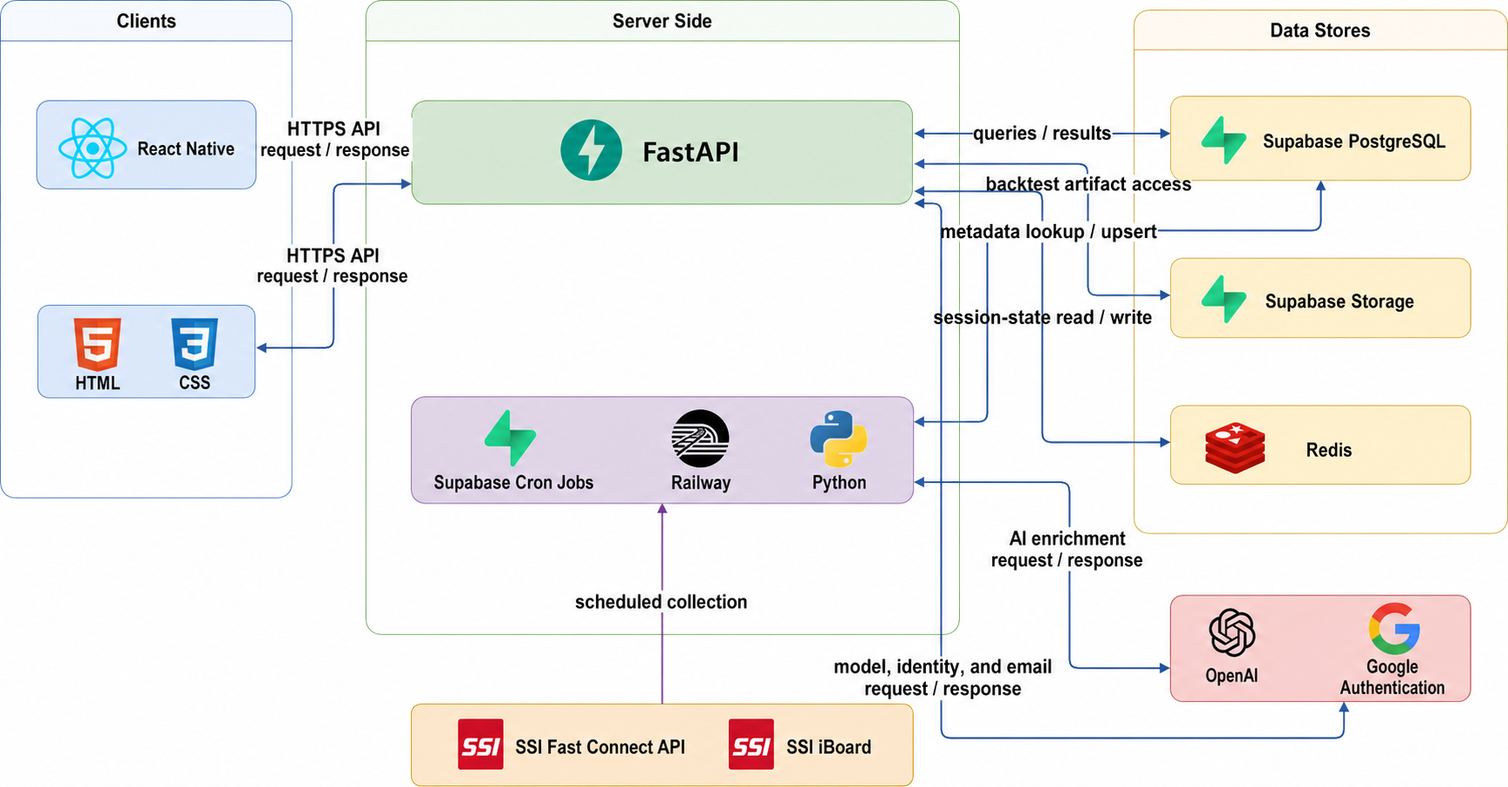
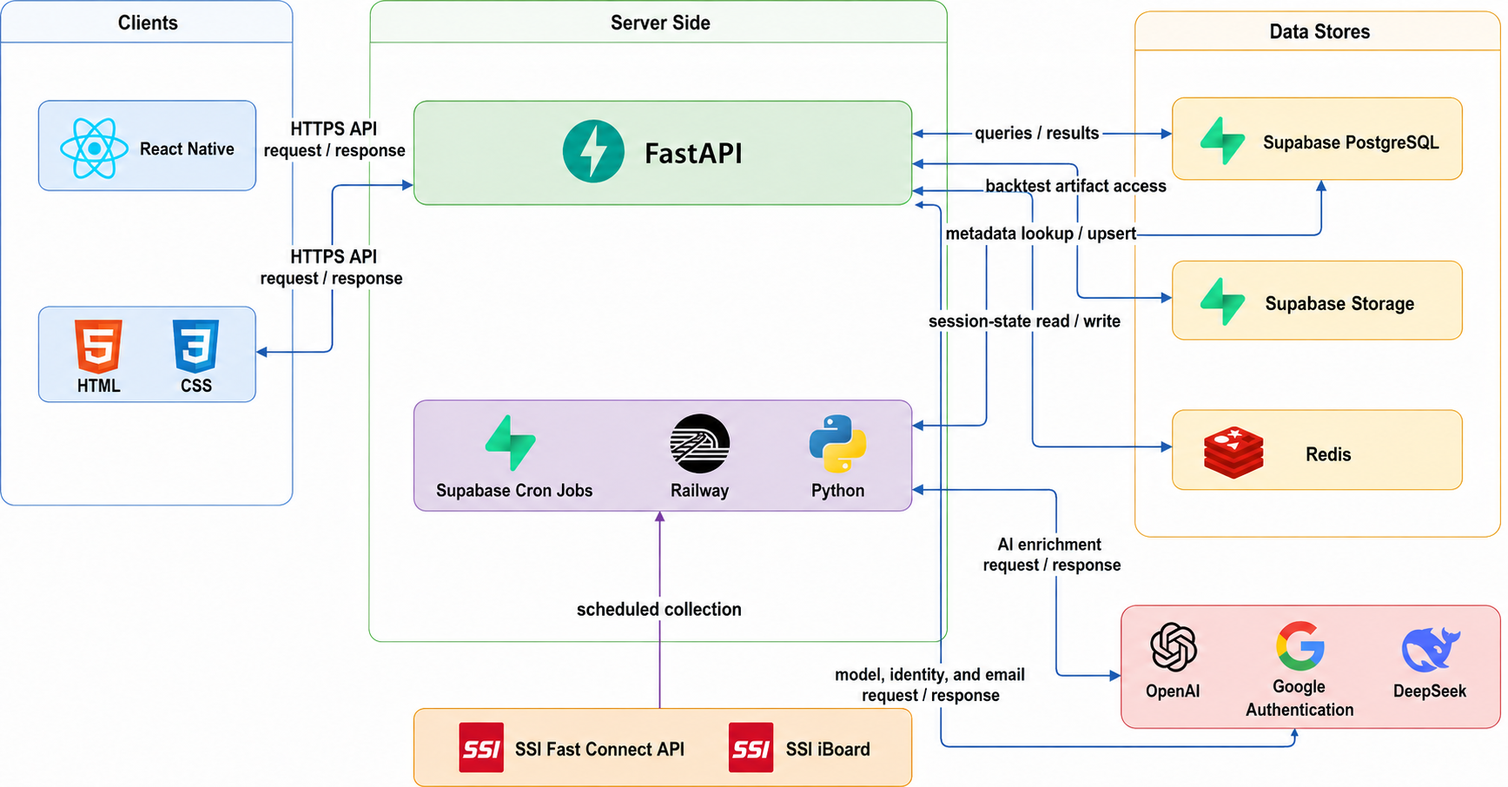
update

diff --git a/report/chapters/chapter2/foundation_technologies.tex b/report/chapters/chapter2/foundation_technologies.tex
@@ -1,19 +1,19 @@
 \section{Artificial Intelligence Foundations}
 \label{sec:artificial-intelligence-foundations}
 
-Stockrium combines large language models, agentic AI orchestration, deterministic decision rules, and historical evaluation. This section introduces the artificial-intelligence and evaluation concepts required to understand the analytical workflow; their implementation is presented in Chapter 4.
+Stockrium combines large language models, multi-agent orchestration, deterministic decision rules, and historical evaluation. This section introduces the artificial-intelligence and evaluation concepts required to understand the analytical workflow; their implementation is presented in Chapter 4.
 
 \subsection{Large Language Models}
 
 Large language models (LLMs) are neural models trained on extensive text collections to understand and generate natural language. Most modern LLMs are based on the Transformer architecture, which uses attention to represent relationships among words in a context \cite{vaswani2017attention}. Their instruction-following capability allows one model to summarize articles, interpret financial observations, classify content, and generate explanations without training a separate model for every task \cite{brown2020gpt3}. Nevertheless, LLMs can produce unsupported or inconsistent statements, and a valid response structure does not guarantee factual or numerical correctness. In Stockrium, LLMs are consequently used mainly for interpretation and explanation, while exact calculations and selected validation rules remain in conventional code.
 
-\subsection{AI Agents, Agentic AI, and Coordination Workflows}
+\subsection{Multi-Agent Systems and Coordination Workflows}
 
-An artificial-intelligence (AI) agent combines a model with a defined role, available information, state, and actions such as calling an application programming interface (API) or returning a structured result. The Reasoning and Acting (ReAct) pattern illustrates how model reasoning can be interleaved with external actions and their observations \cite{yao2022react}. Agentic AI extends this idea into a goal-directed workflow in which model-guided planning, tool or data access, shared state, and deterministic controls cooperate to complete a bounded task. In Stockrium, one orchestrated analysis graph directs specialized technical, fundamental, and news nodes and exposes their intermediate evidence for later synthesis. This separation improves modularity but can also increase latency and propagate errors, making clear responsibilities and compatible output formats necessary.
+A multi-agent system coordinates multiple specialized agents, each with a defined role, available information, state, and actions such as calling an application programming interface (API) or returning a structured result, toward a shared analytical goal \cite{wooldridge2009multiagent}. In Stockrium, one orchestrated analysis graph directs specialized technical, fundamental, and news agents and exposes their intermediate evidence for later synthesis. This separation improves modularity but can also increase latency and propagate errors, making clear responsibilities and compatible output formats necessary.
 
-Several common patterns organize agentic applications. A \textit{specialized node} owns one analytical domain; an \textit{orchestrator--worker} structure assigns work to the appropriate nodes; \textit{fan-out/fan-in} executes independent branches in parallel before joining them; and an \textit{aggregator} reconciles their outputs. Shared state provides a common data contract, while conditional routing selects the next node from the current state. Stockrium combines these patterns within one explicit and bounded workflow rather than relying on unrestricted component-to-component conversation.
+Several common patterns organize multi-agent applications. A \textit{specialized node} owns one analytical domain; an \textit{orchestrator--worker} structure assigns work to the appropriate nodes; \textit{fan-out/fan-in} executes independent branches in parallel before joining them; and an \textit{aggregator} reconciles their outputs. Shared state provides a common data contract, while conditional routing selects the next node from the current state. Stockrium combines these patterns within one explicit and bounded workflow rather than relying on unrestricted component-to-component conversation.
 
-An agentic AI workflow represents processing as a graph of nodes and transitions. Nodes may retrieve data, perform calculations, invoke an LLM, or update shared state, while edges define sequential, conditional, or parallel execution. LangGraph provides these graph and state abstractions together with checkpointing for persistent conversations \cite{langgraph2026graphapi}. In Stockrium, one graph coordinates the stock-analysis components and another routes chatbot requests. This structure makes the allowed execution paths visible and allows deterministic functions and language-model nodes to operate within the same workflow.
+A multi-agent workflow represents processing as a graph of nodes and transitions. Nodes may retrieve data, perform calculations, invoke an LLM, or update shared state, while edges define sequential, conditional, or parallel execution. LangGraph provides these graph and state abstractions together with checkpointing for persistent conversations \cite{langgraph2026graphapi}. In Stockrium, one graph coordinates the stock-analysis components and another routes chatbot requests. This structure makes the allowed execution paths visible and allows deterministic functions and language-model nodes to operate within the same workflow.
 
 \subsection{Hybrid LLM--Rule Decision Support}
 \label{subsec:hybrid-llm-rule-decision-support}
@@ -22,7 +22,7 @@ The term \textit{hybrid LLM--rule-based approach} describes an architecture that
 
 The approach is informed by several related research directions. Neuro-symbolic AI studies the integration of neural models with explicit knowledge and reasoning \cite{garcez2023neurosymbolic}. MRKL systems apply this modular principle to language models by connecting them with external knowledge and discrete reasoning modules \cite{karpas2022mrkl}. NeMo Guardrails demonstrates that interpretable, user-defined rules can be applied at runtime independently of the underlying LLM \cite{rebedea2023nemo}. DecisionFlow additionally reports that representing actions and constraints explicitly can improve decision accuracy and alignment on high-stakes benchmarks \cite{chen2025decisionflow}. Stockrium adopts the general separation-of-responsibilities principle from this literature; it does not reproduce any of these frameworks or claim that they directly define its financial rules.
 
-In Stockrium, specialist components first prepare technical, fundamental, and financial-news evidence. The LLM-based aggregator interprets these inputs, resolves their qualitative implications, produces a candidate \textit{Buy} or \textit{Wait} assessment, and explains the result. Deterministic Python code then calculates the technical score and confidence, excludes unavailable evidence, and checks the candidate against explicit conditions. A candidate Buy is downgraded to Wait if the enabled technical indicators do not reach the required score, available fundamentals are classified as weak, available news is negative, or confidence is below the configured threshold. For an accepted Buy, code also constrains take-profit, stop-loss, and holding values according to the selected investment horizon. The complete formulas, thresholds, and boundaries are presented in Chapter~4.
+In Stockrium, three specialist components each pair a deterministic data-preparation step with a language-model node that produces a normalized technical, fundamental, or news score and a natural-language summary for its domain; the technical score is instead computed deterministically from indicator rules, with the language model limited to narration. A deterministic recommendation component combines the three normalized scores through horizon-dependent weights into a single total score and issues a \textit{Buy} assessment only when that total score and the technical score each clear a fixed threshold, defaulting to \textit{Wait} otherwise. For an accepted Buy, the same component also constrains take-profit, stop-loss, and holding values to horizon-specific numeric ranges, drafting the plan through a constrained language-model call that is replaced by a deterministic fallback whenever it violates those ranges. A final language-model node then generates a confidence estimate and an explanatory summary of the already-finalized decision; it interprets and narrates the result but does not recalculate the score, alter the Buy/Wait decision, or modify the trading plan. The complete formulas, thresholds, and boundaries are presented in Chapter~4.
 
 This hybrid design is used because neither component is sufficient by itself. A purely rule-based system would be difficult to maintain for diverse news events, company circumstances, and conflicting qualitative evidence. A purely LLM-based system would be flexible but could produce unsupported statements, inconsistent decisions, or numerical errors \cite{ji2023hallucination}. Combining them allows the LLM to provide contextual interpretation while deterministic rules provide repeatability and a conservative verification layer. The particular Stockrium thresholds and weights are project-defined engineering choices rather than values derived directly from the cited papers, and the resulting confidence score should not be interpreted as a calibrated probability of profit.
 
@@ -34,4 +34,4 @@ A meaningful backtest must specify its signal, entry, exit, holding-period, and 
 
 The Sharpe ratio generally measures excess return per unit of return variability \cite{sharpe1994ratio}. Stockrium's implementation uses closed-trade returns, a zero risk-free benchmark, and computes $\sqrt{N}\,\bar{r}/s_r$, where $\bar{r}$ and $s_r$ are the sample mean and sample standard deviation of trade returns. It returns zero when fewer than two trades are available or when their returns have no variation. The result is therefore a trade-level comparative statistic rather than a conventional annualized daily-return Sharpe ratio. Simple baselines provide reference behavior, while market-regime analysis separates results under different broad market trends. Nevertheless, historical results can be distorted by overfitting, survivorship bias, look-ahead bias, incomplete data, and simplified execution assumptions \cite{bailey2017pbo}; they describe past behavior and do not prove future profitability. Stockrium's backtesting facility is consequently an internal evaluation tool for its pipeline and supported configurations, not a general-purpose strategy-construction platform.
 
-Together with the financial-analysis foundations in Section~\ref{sec:financial-analysis-foundations}, these concepts explain the principal division of responsibilities in Stockrium: financial methods define the evidence, LLMs interpret it, the agentic AI workflow coordinates specialized work, deterministic rules constrain the result, and backtesting evaluates historical behavior.
+Together with the financial-analysis foundations in Section~\ref{sec:financial-analysis-foundations}, these concepts explain the principal division of responsibilities in Stockrium: financial methods define the evidence, LLMs interpret it, the multi-agent workflow coordinates specialized work, deterministic rules constrain the result, and backtesting evaluates historical behavior.

diff --git a/report/chapters/chapter2/development_technologies.tex b/report/chapters/chapter2/development_technologies.tex
@@ -1,7 +1,7 @@
 \section{Development Technology Foundations}
 \label{sec:development-technology-foundations}
 
-Stockrium consists of mobile and web interfaces, a backend application programming interface (API), data pipelines, persistent storage, and agentic AI analysis workflows. This section introduces the principal technologies used in these components and the responsibility of each technology within the system.
+Stockrium consists of mobile and web interfaces, a backend application programming interface (API), data pipelines, persistent storage, and multi-agent analysis workflows. This section introduces the principal technologies used in these components and the responsibility of each technology within the system.
 
 \begin{figure}[H]
     \centering
@@ -18,24 +18,22 @@ Stockrium consists of mobile and web interfaces, a backend application programmi
 
 \textbf{Data visualization.} TradingView Lightweight Charts is embedded through React Native WebView, which hosts web content inside a native screen, to display interactive candlestick, volume, and recommendation charts \cite{tradingviewLightweight2026}. Victory Native provides reusable chart components, React Native Skia supplies accelerated two-dimensional drawing \cite{reactNativeSkia2026}, and Wagmi Charts supports interactive time-series and indicator lines. Data-Driven Documents (D3) Hierarchy calculates the nested rectangular layout used by the market treemap. These libraries allow each financial visualization to use a rendering approach suited to its data and interaction requirements.
 
-\subsection{Backend, Authentication, and Security Technologies}
+\subsection{Backend Technologies}
 
-The backend is implemented in Python with FastAPI and served by Uvicorn, an Asynchronous Server Gateway Interface (ASGI) server. FastAPI defines Representational State Transfer (REST) endpoints over the Hypertext Transfer Protocol (HTTP), supports asynchronous request handling, and generates interactive API documentation \cite{fastapiFeatures2026}. Pydantic models validate the structure and type of request and response data \cite{pydanticModels2026}, while Pydantic Settings loads configuration and credentials from environment variables \cite{pydanticSettings2026}. Requests and HTTPX provide HTTP clients for external services. The source code follows a route--service structure: routes handle transport concerns, services implement application logic, and service or utility clients communicate with Supabase, SSI, and other external providers.
+The backend is implemented in Python with FastAPI and served by Uvicorn, an Asynchronous Server Gateway Interface (ASGI) server. FastAPI defines Representational State Transfer (REST) endpoints over the Hypertext Transfer Protocol (HTTP), supports asynchronous request handling, and generates interactive API documentation \cite{fastapiFeatures2026}. Pydantic models validate the structure and type of request and response data \cite{pydanticModels2026}, while Pydantic Settings loads configuration and credentials from environment variables \cite{pydanticSettings2026}. Requests and HTTPX provide HTTP clients for external services. The source code follows a route--service structure: routes handle transport concerns, services implement application logic, and service or utility clients communicate with Supabase, SSI, and other external providers. The backend is deployed on Railway, a cloud application-hosting platform.
 
 Authentication uses bcrypt, an adaptive one-way password-hashing algorithm, so plaintext passwords are not stored. PyJWT creates and verifies signed JSON Web Tokens (JWTs): short-lived access tokens authorize API requests, while refresh tokens obtain new access tokens without requiring the user to enter credentials again. Server-side session records in Redis allow issued tokens to be checked and invalidated, while Expo SecureStore protects token values stored on the mobile device \cite{expoSecureStore2026}. The system also supports Google Sign-In, time-limited one-time passwords (OTPs) for account verification and password recovery, and transactional email delivery through the Resend HTTP API \cite{resendApi2026}. Secrets, provider credentials, and API keys are kept in environment configuration rather than embedded in source code.
 
 \subsection{Data Acquisition, Processing, and Storage Technologies}
 
-SSI Securities Corporation's FastConnect (FC) Data services provide Vietnamese security, price, and market-index data through historical APIs and real-time WebSocket streams. A WebSocket maintains a persistent connection for receiving continuous market updates, unlike repeated request--response polling. Offline utilities use Selenium WebDriver to automate the dynamically rendered SSI iBoard interface and collect company profiles and financial reports \cite{seleniumWebDriver2025}. The news pipeline uses Serper to discover relevant pages and Newspaper3k to extract article text before OpenAI-based summarization and sentiment labeling.
+SSI Securities Corporation's FastConnect (FC) Data services provide Vietnamese security, price, and market-index data through historical APIs and real-time WebSocket streams. A WebSocket maintains a persistent connection for receiving continuous market updates, unlike repeated request--response polling. The WebSocket listener and the scheduled SSI API calls run as long-lived and periodic processes deployed on Railway, alongside Supabase cron jobs that trigger additional scheduled collection and maintenance tasks. Offline utilities use Selenium WebDriver to automate the dynamically rendered SSI iBoard interface and collect company profiles and financial reports \cite{seleniumWebDriver2025}. The news pipeline uses Serper to discover relevant pages and Newspaper3k to extract article text before OpenAI-based summarization and sentiment labeling.
 
 pandas represents and transforms tabular data, NumPy provides numerical arrays and calculations, and OpenPyXL allows pandas to read downloaded Microsoft Excel workbooks. Stockrium's active technical-indicator service implements moving averages, RSI, MACD, Bollinger Bands, KDJ, and volume averages directly with pandas and NumPy, while SciPy supplies statistical functions for backtest evaluation \cite{pandasIO2026}. These acquisition and preparation pipelines populate the database independently of ordinary mobile requests; they are not executed synchronously when a user opens a screen.
 
 Supabase provides the principal PostgreSQL relational database for account, market, company, fundamental, news, and chatbot data \cite{supabaseDatabase2026}. PostgreSQL uses Structured Query Language (SQL) for relational data operations. The Supabase client supports ordinary table access, whereas Psycopg provides direct PostgreSQL connections for LangGraph checkpoint persistence and related chat operations. Supabase Storage stores exported JavaScript Object Notation (JSON) backtest artifacts when they are uploaded. Redis supplies expiring key--value storage for short-lived authentication data, including token sessions, OTPs, attempt counters, and password-reset sessions \cite{redisDataTypes2026}; it is not the primary store for market or financial records.
 
-\subsection{Agentic AI Orchestration and State Management Technologies}
+\subsection{Multi-Agent Orchestration and State Management Technologies}
 
-The OpenAI Python software development kit (SDK) connects the backend and data pipelines to GPT-4o mini, a Generative Pre-trained Transformer (GPT) model used for article summarization and sentiment labeling, financial interpretation, chatbot responses, and recommendation synthesis. OpenAI Structured Outputs and Pydantic schemas constrain model responses to predefined fields and data types that can be validated and exchanged between workflow components \cite{openaiStructuredOutputs2026}. Schema compliance improves interoperability but does not prove that generated content is factually correct. Numerical indicators, confidence calculations, and selected recommendation constraints therefore remain in deterministic Python code.
+Two large-language-model providers support Stockrium's language-based components. The news-acquisition pipeline and the conversational chatbot use the OpenAI Python software development kit (SDK) to call GPT-4o mini for article summarization, sentiment labeling, and chatbot responses, constrained via OpenAI Structured Outputs with Pydantic schemas \cite{openaiStructuredOutputs2026}. The stock-analysis graph instead reaches DeepSeek's \texttt{deepseek-v4-flash} through the same OpenAI-compatible SDK pointed at DeepSeek's application programming interface (API): each specialist and the aggregator request DeepSeek's JSON-object mode with the target Pydantic schema embedded in the prompt, and the returned JSON is validated against that schema in application code. Schema compliance improves interoperability but does not prove factual correctness, regardless of provider, so numerical indicators, confidence calculations, and selected recommendation constraints remain in deterministic Python code.
 
 LangGraph coordinates the orchestrator, specialist analytical nodes, aggregator, and chatbot through explicit stateful graphs, while LangChain Core supplies supporting message abstractions. During stock analysis, a typed shared state carries the request, execution plan, retrieved source data, and branch results. Reducers define how concurrent updates are combined, allowing the technical, fundamental, and news branches to merge their outputs before aggregation without overwriting one another. For the chatbot, LangGraph checkpoints save graph state by session in PostgreSQL through Psycopg, allowing a later request to resume the correct conversation \cite{langgraphPersistence2026}. A checkpoint is a durable snapshot of workflow state, whereas the in-memory shared state exists only during an individual execution. This distinction separates temporary coordination data from persistent conversation history.
-
-Together, these technologies support the complete Stockrium workflow, from user interaction and financial-data acquisition to agentic AI analysis, persistence, security, and deployment.

diff --git a/report/chapters/chapter2/related_work.tex b/report/chapters/chapter2/related_work.tex
@@ -9,16 +9,17 @@ LLM-based agent systems organize financial reasoning through specialized roles, 
 
 \subsection{Finance-Specific Large Language Models}
 
-Finance-specific language models show that domain knowledge can improve the interpretation of specialized terminology, disclosures, and market communication. BloombergGPT is a 50-billion-parameter model trained on both financial and general-purpose corpora; its evaluation indicates that domain-focused pretraining improves performance on financial NLP tasks while retaining general capabilities \cite{wu2023bloomberggpt}. FinGPT provides a more accessible, open-source alternative centered on automated financial-data curation and lightweight model adaptation for tasks such as sentiment analysis, robo-advising, and algorithmic trading \cite{yang2023fingpt}. These studies establish the usefulness of LLMs for extracting information, understanding financial text, and generating explanations. Nevertheless, a financial language model alone does not constitute a complete decision-support application: it does not necessarily retrieve synchronized market and company data, reconcile multiple analytical perspectives, apply user configurations, enforce numerical risk constraints, or evaluate strategies historically. The cited models are also not specifically designed for Vietnamese financial language or local market conventions. Consequently, Stockrium uses general LLM capabilities within a controlled application workflow, while structured data processing and deterministic rules remain responsible for calculations and output validation.
+Finance-specific language models show that domain knowledge can improve the interpretation of specialized terminology, disclosures, and market communication. BloombergGPT is a 50-billion-parameter model trained on both financial and general-purpose corpora; its evaluation indicates that domain-focused pretraining improves performance on financial NLP tasks while retaining general capabilities \cite{wu2023bloomberggpt}. FinGPT provides a more accessible, open-source alternative centered on automated financial-data curation and lightweight model adaptation for tasks such as sentiment analysis, robo-advising, and algorithmic trading \cite{yang2023fingpt}. Both models are fine-tuned on curated financial data rather than built from a fundamentally different architecture, and it is this domain-specific fine-tuning that allows them to analyze financial text more accurately than general-purpose LLMs. Stockrium's current implementation instead uses a general-purpose LLM within a controlled application workflow, where structured data processing and deterministic rules remain responsible for calculations and output validation while the language model is limited to interpreting and synthesizing the prepared evidence. As sufficient proprietary Vietnamese market and news data become available, deploying or fine-tuning a finance-specific model for the same analytical roles is a viable future direction toward more accurate financial analysis.
 
 \subsection{Financial News Sentiment Analysis}
 
 Financial news may contain events and expectations that are not fully reflected in historical prices, but its specialized vocabulary limits the effectiveness of general sentiment models. FinBERT addresses this problem through domain-specific pretraining and fine-tuning, achieving improved positive, neutral, and negative classification on financial datasets \cite{araci2019finbert}. FinBERT-LSTM subsequently combined news sentiment with historical prices for NASDAQ-100 prediction, showing that textual information can supplement numerical time series \cite{halder2022finbertlstm}; however, it remains a price-prediction pipeline and does not reconcile news with fundamental and technical evidence. Vietnamese studies provide more locally relevant findings. Tung et al. reported that PhoBERT outperformed conventional models on Vietnamese stock-article titles, reaching approximately 93\% accuracy \cite{tung2021phobert}. Using a year-long collection from three Vietnamese financial-news platforms, Vu et al. achieved over 81\% accuracy in binary positive--negative sentiment classification \cite{vu2023sentiments}. Their event study found significant changes in the return variance of the VN30 and HNX30 indices around negative news over the examined 30-day windows, but no statistically significant changes in mean returns. These results suggest that sentiment can provide useful contextual and risk information but should not independently determine an investment action. Stockrium therefore summarizes and assesses stock-related news as one analytical source whose output is combined with technical and fundamental evidence.
 
-\subsection{Prediction Research for the Vietnamese Stock Market}
+\subsection{Vietnamese Stock Market Prediction}
 
-Vietnamese stock-market research has primarily used historical numerical data to forecast index or stock movements. Truong et al. compared LSTM variants for VN-Index prediction and found bidirectional LSTM effective across the examined horizons \cite{truong2022lstm}. Phuoc et al. incorporated moving averages, MACD, and RSI into an LSTM-based model for the VN-Index and VN30 stocks, reporting values around or above 93\% for most examined series under the study's price-error-based accuracy measure \cite{phuoc2024ml}. Son et al. later compared multilayer perceptron, LSTM, bidirectional LSTM, and Transformer models and obtained horizon-dependent results: Transformer performed better for short-term forecasting, whereas bidirectional LSTM was stronger over medium and longer horizons \cite{son2025deepmodels}. These studies confirm the relevance of machine learning, technical indicators, and investment horizon in the Vietnamese market. Nevertheless, their main evaluation target is forecast error or directional accuracy, which does not directly indicate whether an analytical pipeline controls drawdown, remains effective after transaction costs, or provides understandable evidence for a recommendation. None of these reviewed forecasting studies integrates price behavior with both company fundamentals and Vietnamese financial news. Stockrium extends this research direction by emphasizing integrated and explainable decision support together with internal historical evaluation rather than price prediction alone.
+Vietnamese stock-market research has primarily used historical numerical data to forecast index or stock movements. Truong et al. compared LSTM variants for VN-Index prediction and found bidirectional LSTM effective across the examined horizons \cite{truong2022lstm}. Phuoc et al. incorporated moving averages, MACD, and RSI into an LSTM-based model for the VN-Index and VN30 stocks, reporting values around or above 93\% for most examined series under the study's price-error-based accuracy measure \cite{phuoc2024ml}. Son et al. later compared multilayer perceptron, LSTM, bidirectional LSTM, and Transformer models and obtained horizon-dependent results: Transformer performed better for short-term forecasting, whereas bidirectional LSTM was stronger over medium and longer horizons \cite{son2025deepmodels}. Their main evaluation target is forecast error or directional accuracy, which does not directly indicate whether an analytical pipeline controls drawdown, remains effective after transaction costs, or provides understandable evidence for a recommendation. Moreover, none of these studies integrates price behavior with both company fundamentals and Vietnamese financial news.
 
+Commercial applications such as SSI iBoard Pro similarly combine price boards, technical charting, fundamental analysis, and order execution with a curated ``investment recommendation'' feed \cite{ssiIboardPro2026}, but that feed is produced by human analysts rather than an automated per-source pipeline, and it provides no supporting evidence, configurable weights, or backtesting. Neither the reviewed research nor this class of application, therefore, integrates price behavior with fundamentals and Vietnamese news into a single explainable recommendation that a user can inspect. Stockrium extends this direction by combining technical, fundamental, and news evidence into an explainable, verifiable recommendation rather than relying solely on a price-error metric or a human-curated pick.
 \subsection{Research Gap and Positioning of Stockrium}
 
 The literature reveals a separation among financial AI research streams: forecasting studies focus mainly on prices and technical indicators, sentiment studies classify news, finance-specific LLMs address language understanding, and multi-agent frameworks often target autonomous trading in international markets. Among the reviewed works, none combines technical, fundamental, and Vietnamese news evidence in a user-facing application while also supporting configurable analysis, investment-horizon awareness, explainable recommendations, deterministic decision constraints, and internal backtesting. Stockrium is designed to address this integration gap. Its explicit agentic AI workflow coordinates specialized analytical nodes, allows users to select analytical inputs and their relative importance, and uses an LLM to interpret and synthesize evidence rather than perform every calculation. Deterministic components calculate indicators and confidence, validate minimum conditions, and restrict unsupported recommendations, while the internal backtesting facility enables Stockrium's analytical pipeline and supported configurations to be evaluated on historical Vietnamese data. The contribution is therefore not a new forecasting model or a claim of guaranteed superior returns; it is the construction of a localized, configurable, and transparent decision-support environment that brings previously separate analytical capabilities into a coherent system.

diff --git a/report/chapters/chapter2/financial_analysis_foundations.tex b/report/chapters/chapter2/financial_analysis_foundations.tex
@@ -44,7 +44,7 @@ where $n_t$ is the number of transactions in interval $t$, and $O_t$, $H_t$, $L_
     \end{tabularx}
 \end{table}
 
-The meaning of a bar depends on its interval. A one-minute bar describes intraday activity, whereas daily, weekly, and monthly bars progressively suppress short-lived fluctuations and emphasize longer trends. Stockrium uses daily, weekly, or monthly observations for short-, medium-, or long-term automated analysis, while its price chart also supports intraday intervals for exploration.
+The meaning of a bar depends on its interval. A one-minute bar describes intraday activity, whereas hourly, daily, and weekly bars progressively suppress short-lived fluctuations and emphasize longer trends. Stockrium uses hourly, daily, or weekly observations for short-, medium-, or long-term automated analysis, while its price chart also supports intraday intervals for exploration.
 
 \paragraph{Candlestick and volume charts.}
 
@@ -156,22 +156,6 @@ KDJ locates the close within the recent high--low range and adds a more responsi
 \end{align}
 
 When the nine-bar range is zero, the application-analysis service sets $RSV_t$ to 50; the first $K$ and $D$ values are also initialized at 50. The $K$ and $D$ lines smooth the location of the close, whereas $J$ magnifies their difference and can move outside the interval $[0,100]$. Stockrium looks for $K$ crossing above $D$, strengthening $J$ while $K>D$, or an upward recovery of $K$ below 20. This sensitivity is useful for short-term turning-point context but also makes KDJ susceptible to noise.
-
-\paragraph{Combination in Stockrium.}
-
-The current technical component requires at least 50 complete OHLCV bars and evaluates five enabled perspectives: SMA, RSI, MACD, Bollinger Bands, and KDJ. Each enabled perspective contributes either 0 or 1 according to its bullish conditions, producing
-
-\begin{equation}
-    S_t=\sum_{j=1}^{m}s_{j,t},
-    \qquad s_{j,t}\in\{0,1\},
-    \label{eq:technical-score}
-\end{equation}
-
-where $m$ is the number of selected perspectives. A candidate positive technical condition requires at least $\lceil0.60m\rceil$ points. When available, the latest one-minute price is used in the current-price comparisons for SMA and Bollinger Bands; RSI, MACD, and KDJ remain based on the daily, weekly, or monthly bars selected for the investment horizon. A zero for one perspective means only that its bullish condition was not satisfied; it is not an independent sell signal. Moreover, all five perspectives are derived from the same OHLCV series, so the total should not be interpreted as five statistically independent sources of evidence.
-
-Equation~\ref{eq:technical-score}, its binary point assignment, and the 60\% qualification threshold are author-defined Stockrium rules. They combine conventional indicators into an inspectable prototype score; they are not a published forecasting model or an empirically calibrated probability.
-
-The formulas above describe the NumPy- and pandas-based service used for current application analysis, chart data, and historical backtesting. Both production analysis and backtesting call this indicator service and the same deterministic scoring module, so their indicator conventions and binary scoring rules are maintained in one place. The available indicator set and conventional function families are also documented by TA-Lib \cite{talibFunctions2026}, but the active Stockrium service does not depend on the TA-Lib package.
 
 \subsection{Fundamental Analysis}
 \label{subsec:fundamental-analysis-foundations}
@@ -341,10 +325,6 @@ where $x_0$ and $x_n$ are the earliest and latest valid observations and $y_n-y_
 
 The system also compares a company with annual medians for its ICB industry. A median is less sensitive than a mean to extreme values and is shown only when the industry data contain at least three peers. For non-financial firms, the comparison includes profitability, margins, asset turnover, leverage, P/E, and P/B. For financial-sector firms, it includes available profitability, leverage, liquidity, P/B, CAR, NIM, LDR, and NPL measures. The comparison gives a ratio meaning only in relation to the economics and normal capital structure of similar firms.
 
-The five-year fundamental window is independent of the user's selected investment horizon. The horizon changes the relative influence of fundamental evidence during final synthesis: its default weight is 0.10 for short-term, 0.40 for medium-term, and 0.70 for long-term analysis. This preserves multi-year evidence while acknowledging that business performance and valuation generally matter more to a longer holding period.
-
-Fundamental ratios remain historical, accounting-based measures. They can be affected by accounting policy, exceptional items, restatements, stale market prices, missing observations, and differences in fiscal-year timing. A financial-year end is also not the date on which the report became public; a point-in-time historical evaluation must use actual availability rather than assume immediate knowledge. Fundamental analysis is consequently structured supporting evidence, not a guarantee of future earnings or returns.
-
 \subsection{Financial News Analysis}
 \label{subsec:financial-news-analysis-foundations}
 
@@ -363,18 +343,6 @@ News summarization reduces a long article to the information needed for analysis
 \paragraph{Sentiment analysis.}
 
 Financial sentiment analysis assigns a directional interpretation such as positive, neutral, or negative. In this setting, sentiment represents the expected implication for a specified company or market, not merely the emotional tone of the words. The same event can benefit one company, harm a competitor, and have an uncertain sector-wide effect; apparently positive language may also describe a result below market expectations. Domain-specific work such as FinBERT and Vietnamese stock-title classification demonstrates why financial vocabulary and local-language context matter \cite{araci2019finbert,tung2021phobert}. Mixed, conditional, or immaterial information should remain neutral instead of being forced into a directional trading signal.
-
-\paragraph{Temporal and contextual limitations.}
-
-Publication time is not necessarily the time at which an event occurred or first became known. Reposts and near-duplicate articles should not be counted as independent confirmation, and an apparently important event may already be incorporated into market prices. A point-in-time analysis must exclude articles published after the decision time and interpret older news according to both continuing materiality and the investor's horizon. Source credibility, conflicting reports, market conditions, and later corrections can also change an article's meaning. Evidence from the Vietnamese market indicates that news sentiment can be associated with changes in return variability without establishing a dependable change in mean return \cite{vu2023sentiments}. Sentiment is therefore contextual evidence, not a probability of profit or a stand-alone buy or sell rule.
-
-\paragraph{Use in Stockrium.}
-
-Stockrium's collection pipeline discovers Vietnamese financial-news pages through Serper, extracts their text and metadata with Newspaper3k, and uses \texttt{gpt-4o-mini} to produce a one-to-three-sentence Vietnamese summary and a positive, neutral, or negative label from the perspective of the relevant stock, industry, or market. The database retains the original link, content, source, and publication time together with these generated fields. The executable scheduler currently performs this collection weekly and restricts search results to the preceding week.
-
-During stock analysis, the article specialist selects stock-linked records within the planned date interval and uses their dates, titles, stored summaries, and sentiment labels to identify the principal information, positive implications, and risks. The aggregator then interprets the combined news evidence as positive, neutral, or negative. Missing news is excluded from the confidence calculation. When news is available, its sentiment contributes to confidence and a negative classification can veto a proposed Buy; it is normally interpreted alongside technical and fundamental evidence rather than treated as a stand-alone trading rule.
-
-The current article specialist does not receive the source domain, original link, or full article text at analysis time. It therefore cannot independently reassess publisher credibility or recover context omitted by the stored summary. This is an implementation limitation: provenance-aware filtering, duplicate detection, and direct traceability from a generated claim to its source article remain important improvements for reliable news analysis.
 
 \subsection{Rationale for Combining Technical, Fundamental, and News Analysis}
 \label{subsec:combined-financial-analysis-foundations}

diff --git a/report/main.tex b/report/main.tex
@@ -381,6 +381,9 @@ T. Phuoc, P. T. K. Anh, P. H. Tam, and C. V. Nguyen, ``Applying machine learning
 \bibitem{son2025deepmodels}
 H. H. Son, N. T. Phuong, N. T. Linh, and P. T. Loan, ``A comprehensive comparison of deep learning models for forecasting developing market indices: Evidence from the Vietnamese stock market,'' \textit{Procedia Computer Science}, vol. 272, pp. 210--217, 2025, doi: 10.1016/j.procs.2025.10.198.
 
+\bibitem{ssiIboardPro2026}
+SSI Securities Corporation, ``Stock trading -- SSI iBoard Pro,'' 2026. [Online]. Available: \url{https://www.ssi.com.vn/khach-hang-ca-nhan/giao-dich-chung-khoan-iboard-pro}. Accessed: Aug. 3, 2026.
+
 \bibitem{murphy1999technical}
 J. J. Murphy, \textit{Technical Analysis of the Financial Markets: A Comprehensive Guide to Trading Methods and Applications}. New York, NY, USA: New York Institute of Finance, 1999.
 
@@ -416,9 +419,6 @@ T. Rebedea, R. Dinu, M. N. Sreedhar, C. Parisien, and J. Cohen, ``NeMo Guardrail
 
 \bibitem{chen2025decisionflow}
 X. Chen, S. Wang, C. Qian, H. Wang, P. Han, and H. Ji, ``DecisionFlow: Advancing large language model as principled decision maker,'' in \textit{Findings of the Association for Computational Linguistics: EMNLP 2025}, pp. 16668--16692, 2025, doi: 10.18653/v1/2025.findings-emnlp.905.
-
-\bibitem{yao2022react}
-S. Yao, J. Zhao, D. Yu, N. Du, I. Shafran, K. Narasimhan, and Y. Cao, ``ReAct: Synergizing reasoning and acting in language models,'' in \textit{Proceedings of the International Conference on Learning Representations}, 2023.
 
 \bibitem{wooldridge2009multiagent}
 M. Wooldridge, \textit{An Introduction to MultiAgent Systems}, 2nd ed. Chichester, U.K.: Wiley, 2009.
@@ -482,9 +482,6 @@ Selenium Project, ``The Selenium Browser Automation Project,'' 2025. [Online]. A
 
 \bibitem{pandasIO2026}
 The pandas Development Team, ``IO tools,'' pandas Documentation, 2026. [Online]. Available: \url{https://pandas.pydata.org/docs/user_guide/io.html}. Accessed: Jul. 14, 2026.
-
-\bibitem{talibFunctions2026}
-TA-Lib, ``TA-Lib functions,'' 2026. [Online]. Available: \url{https://ta-lib.org/functions/}. Accessed: Jul. 14, 2026.
 
 \bibitem{resendApi2026}
 Resend, ``API introduction,'' 2026. [Online]. Available: \url{https://resend.com/docs/api-reference/introduction}. Accessed: Jul. 14, 2026.
